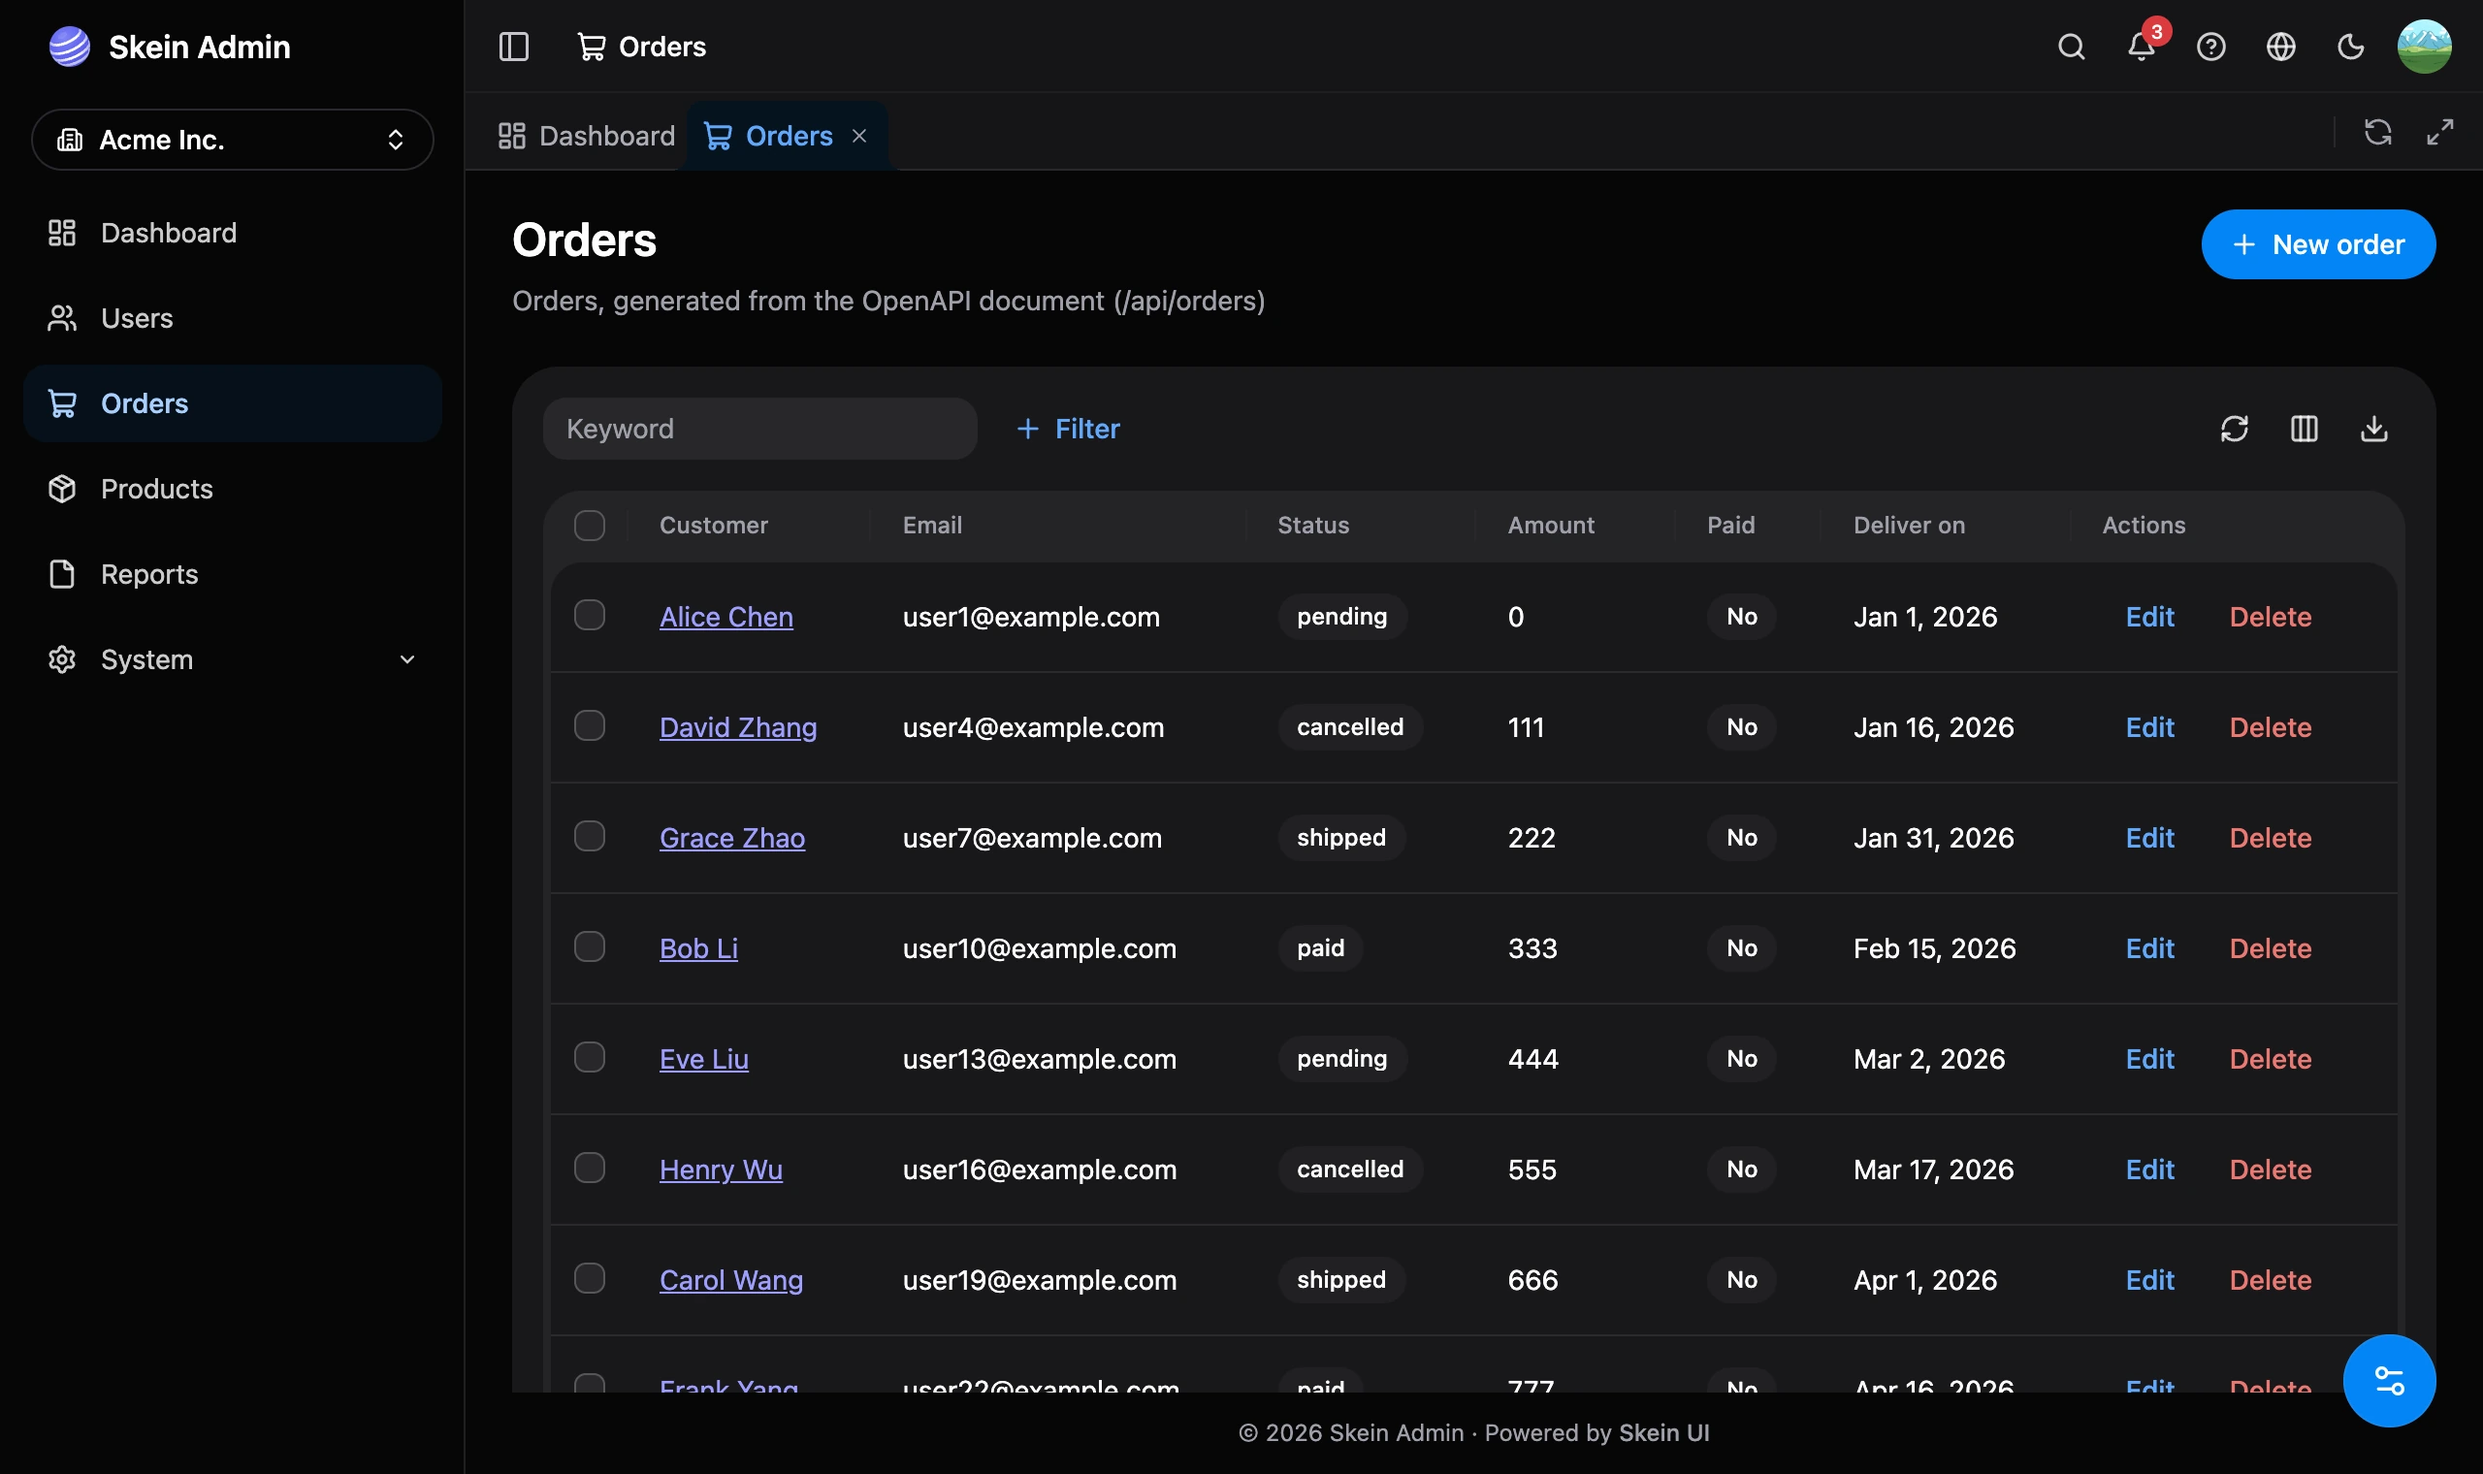
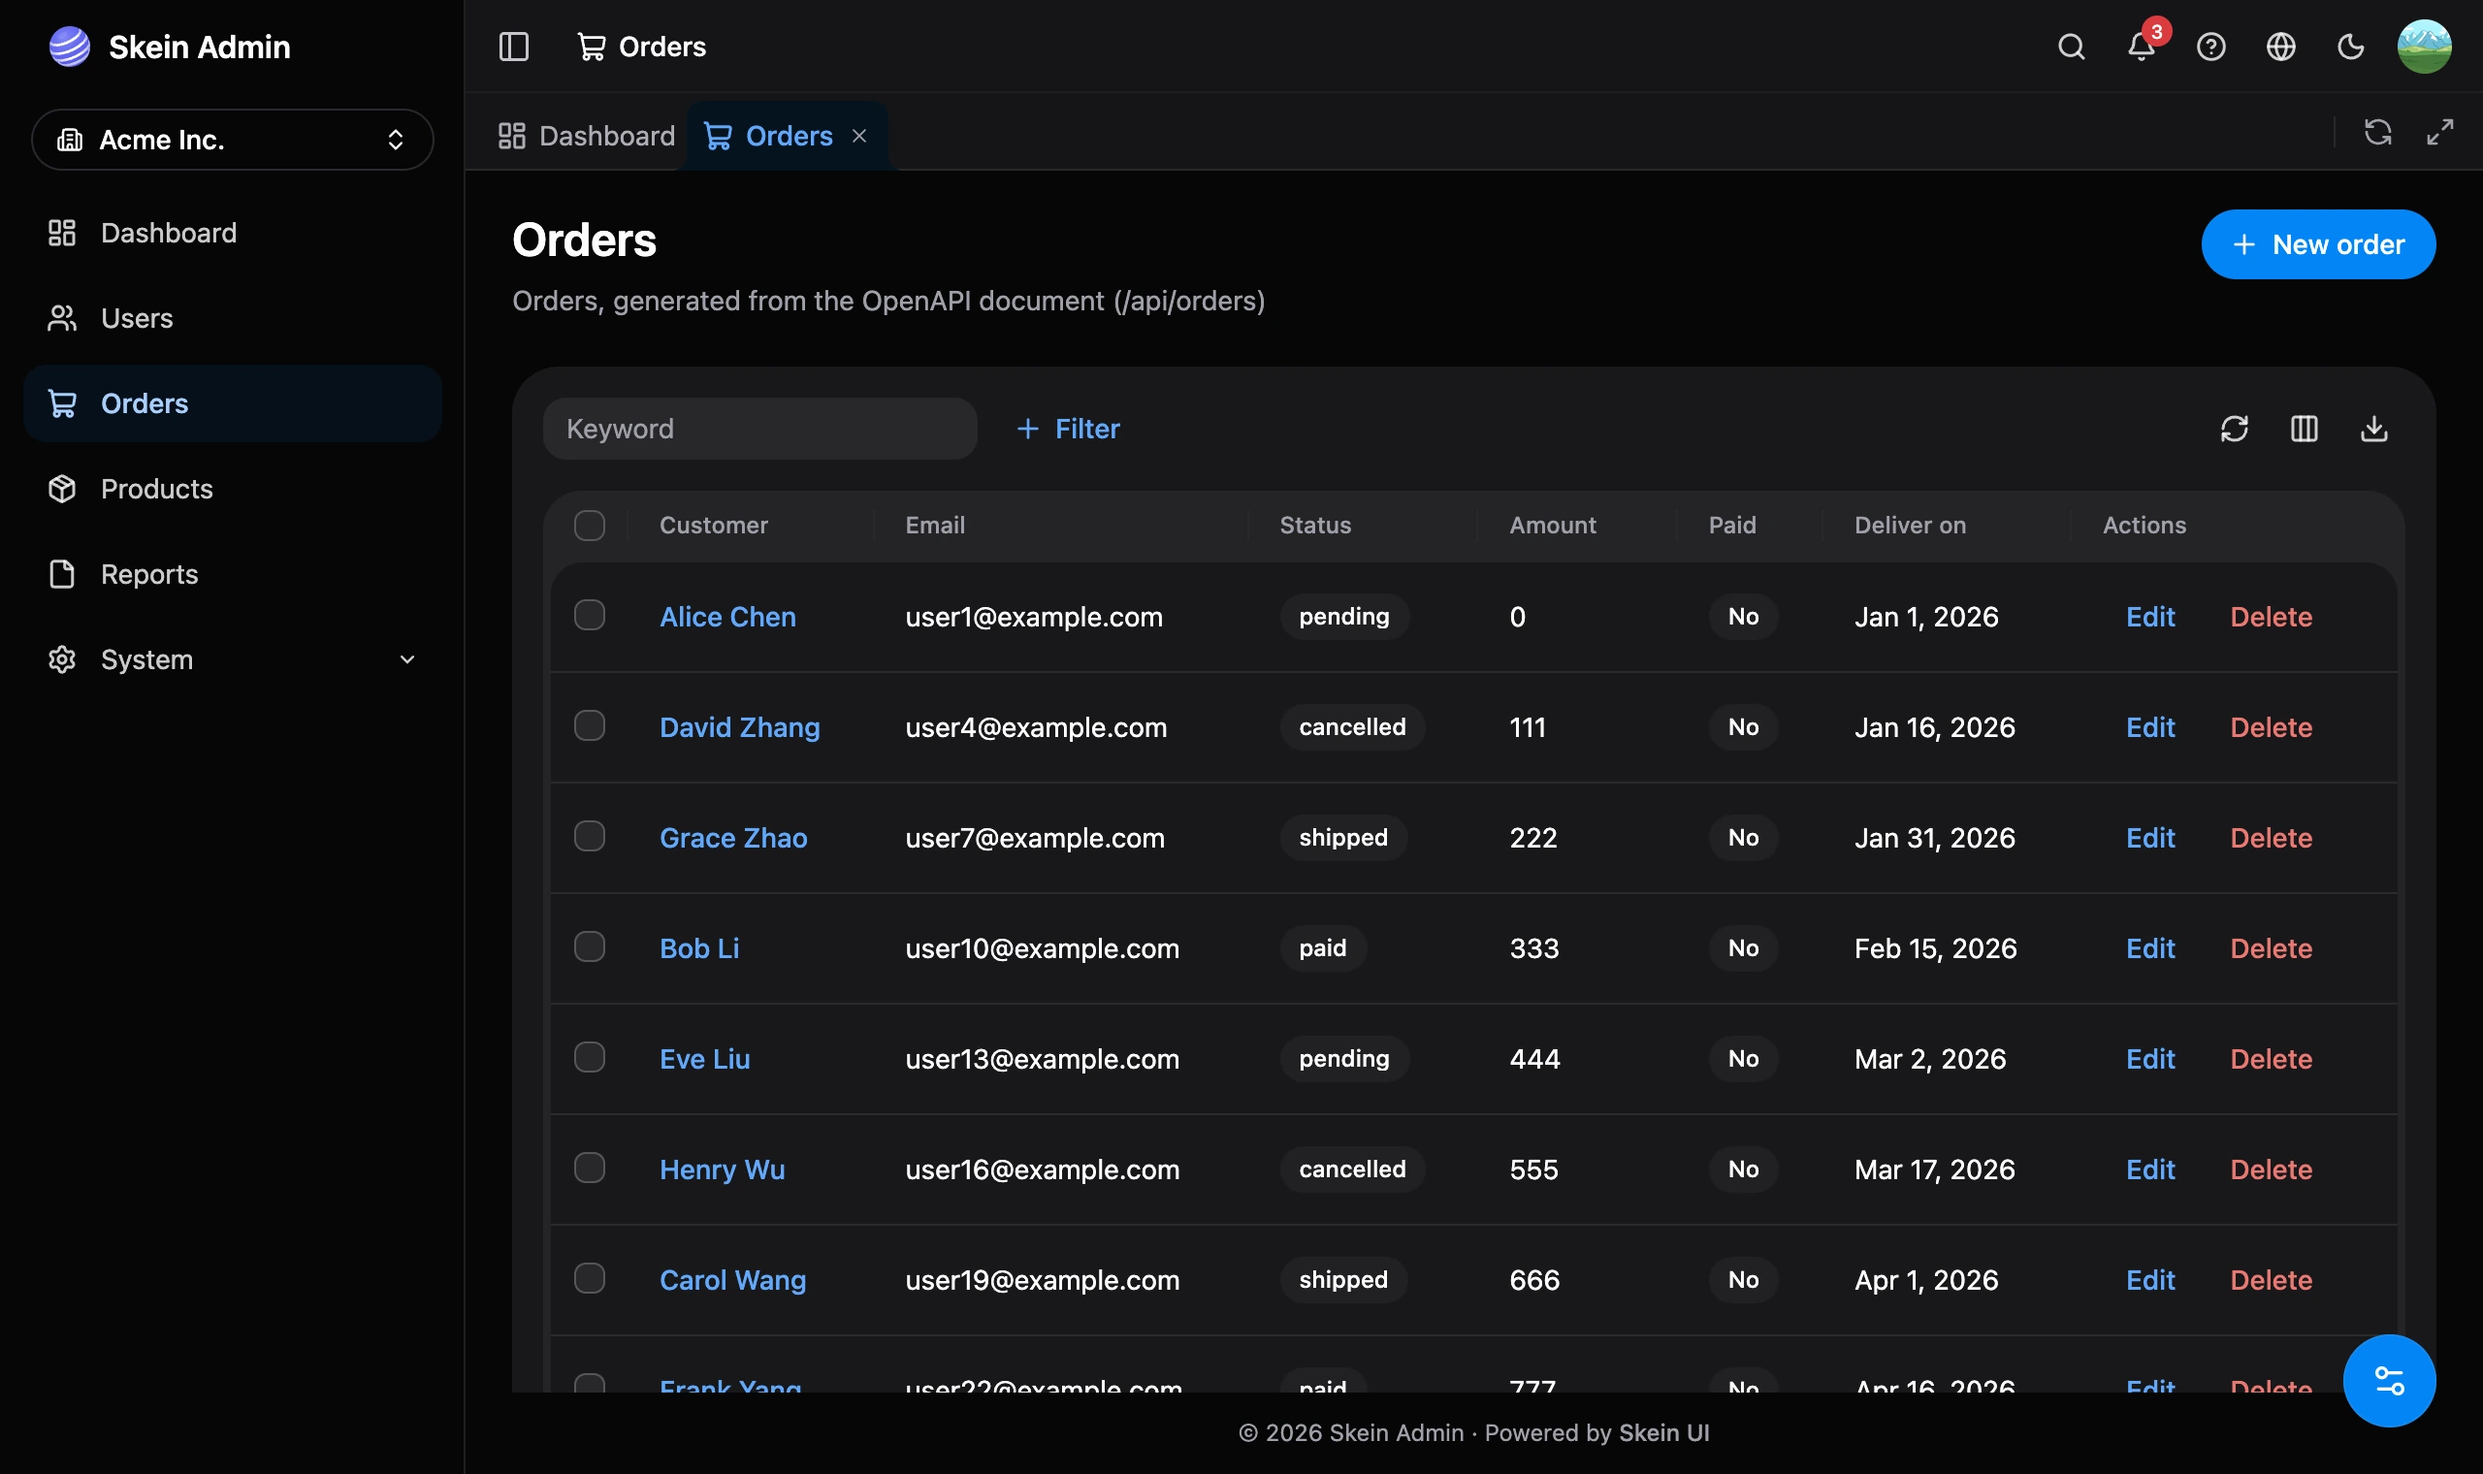
cli: a link to a detail page is drawn by the theme style's Link (RouterLink)
The users table and the pages made by skein new page --from linked with the router's own <Link>, a bare <a> in the
browser's blue and underline. RouterLink (skein-shell, createLink(Link)) keeps the typed to / params / from and the
client-side navigation and takes the look of the theme style. The doc's Skein Admin screenshots are taken again.

diff --git a/packages/cli/src/crud.js b/packages/cli/src/crud.js
@@ -574,8 +574,8 @@ ${keyword ? '            setKeyword("");\n' : ""}            setFilter(undefined
       const id = `String(${access("row", idField)})`;
       // With tenant, from the list's address so the tenant is kept
       return tenant
-        ? `<Link from="/$tenant/${path}" to="/$tenant/${path}/$id" params={(prev) => ({ ...prev, id: ${id} })}>${child}</Link>`
-        : `<Link to="/${path}/$id" params={{ id: ${id} }}>${child}</Link>`;
+        ? `<RouterLink from="/$tenant/${path}" to="/$tenant/${path}/$id" params={(prev) => ({ ...prev, id: ${id} })}>${child}</RouterLink>`
+        : `<RouterLink to="/${path}/$id" params={{ id: ${id} }}>${child}</RouterLink>`;
     }
     return child.startsWith("{") ? child.slice(1, -1) : child;
   };
@@ -618,7 +618,7 @@ ${keyword ? '            setKeyword("");\n' : ""}            setFilter(undefined
                 </Flex>
               </Table.Cell>`;
   files[`components/${leaf}-table.tsx`] = `import { ${tableImports.join(", ")} } from "@skeinui/ui";
-${linkField ? 'import { Link } from "@tanstack/react-router";\n' : ""}import type { ReactNode } from "react";
+${linkField ? 'import { RouterLink } from "@/skein-shell";\n' : ""}import type { ReactNode } from "react";
 ${sorted ? 'import type { Sort } from "@/lib/list-query";\n' : ""}${canVars ? 'import { useAccess } from "@/modules/access";\n' : ""}import type { ${Entity} } from "../api";
 import { use${Name}Translation } from "../locales";
 

diff --git a/packages/cli/templates/features/shell/files/src/pages/users/components/user-table.tsx b/packages/cli/templates/features/shell/files/src/pages/users/components/user-table.tsx
@@ -1,7 +1,7 @@
 import { Button, Flex, Popconfirm, Table, Tag } from "@skeinui/ui";
-import { Link } from "@tanstack/react-router";
 import type { ReactNode } from "react";
 import { useAccess } from "@/modules/access";
+import { RouterLink } from "@/skein-shell";
 import type { User } from "../api";
 import { useUsersTranslation } from "../locales";
 
@@ -35,16 +35,16 @@ export function UserTable({
     name: (user) => (
 {{#if tenant}}
       // From the list's address, so the tenant is kept
-      <Link
+      <RouterLink
         from="/$tenant/users"
         to="/$tenant/users/$id"
         params={(prev) => ({ ...prev, id: String(user.id) })}
       >
 {{else}}
-      <Link to="/users/$id" params={{ id: String(user.id) }}>
+      <RouterLink to="/users/$id" params={{ id: String(user.id) }}>
 {{/if}}
         {user.name}
-      </Link>
+      </RouterLink>
     ),
     email: (user) => user.email,
     role: (user) => t(`role.${user.role}`),

diff --git a/packages/cli/tests/cli.test.ts b/packages/cli/tests/cli.test.ts
@@ -699,7 +699,7 @@ describe("OpenAPI → CRUD page", () => {
       "export const fetchOrder = (id: number) => http.get<Order>(`/api/orders/${id}`);",
     );
     expect(page("detail.tsx")).toContain('navigate({ to: "/orders" })');
-    expect(page("components", "orders-table.tsx")).toContain('<Link to="/orders/$id"');
+    expect(page("components", "orders-table.tsx")).toContain('<RouterLink to="/orders/$id"');
     expect(page("mocks", "handlers.ts")).toContain('http.get("*/api/orders/:id"');
     expect(page("mocks", "handlers.ts")).not.toContain("tenantOf");
     expect(JSON.parse(page("locales", "messages", "zh.json")).detail.back).toBe("返回列表");

diff --git a/packages/cli/templates/features/shell/files/src/skein-shell/index.ts b/packages/cli/templates/features/shell/files/src/skein-shell/index.ts
@@ -2,5 +2,6 @@ export { AppLayout } from "./app-layout";
 export type { AppLayoutProps } from "./app-layout";
 export { KeepAliveOutlet, PageOutlet, usePagePath } from "./keep-alive-outlet";
 export { Page } from "./page";
+export { RouterLink } from "./router-link";
 export { usePageTitles, usePreferencesStore, useTabsStore } from "./store";
 export { loadThemeStyle, resolveThemeStyle, themeStyleOptions, useThemeStyle } from "./theme-style";

diff --git a/packages/cli/templates/features/shell/files/src/skein-shell/router-link.tsx b/packages/cli/templates/features/shell/files/src/skein-shell/router-link.tsx
@@ -1,0 +1,9 @@
+import { Link } from "@skeinui/ui";
+import { createLink } from "@tanstack/react-router";
+
+/**
+ * A link between pages: the router's `<Link>` (typed `to` / `params` / `from`, client-side navigation) drawn by the
+ * theme style's `Link`, so it looks like the rest of the app instead of a bare `<a>`:
+ * `<RouterLink to="/users/$id" params={{ id }}>Ada</RouterLink>`.
+ */
+export const RouterLink = createLink(Link);

diff --git a/packages/cli/templates/_base/AGENTS.md b/packages/cli/templates/_base/AGENTS.md
@@ -113,7 +113,7 @@ src/
 1. Set the menu label, icon (lucide-react) and order in `_meta.ts`.
 
 {{#if tenant}}
-Every page is under its tenant: `/acme/orders`, route files in `routes/_auth/$tenant/` (`new page` puts them there), menu paths and `_meta.ts` without the tenant. `routes/_auth/$tenant.tsx` makes the address's tenant the current one before the page loads, and `src/lib/http.ts` sends it as `X-Tenant-Id` with every request: the API answers for that tenant, so don't pass it to requests by hand. A path without a tenant (`/orders`) gets the one used last. The switcher (`src/modules/tenant-switcher/`, next to the logo) lists `GET /api/tenants` (`[{ id, name }]`{{#if mock}}, mocked{{/if}}) and goes to the same page of the tenant picked (on a detail page, its list); open tabs follow. Links between pages include the tenant (`<Link from="/$tenant/users" to="/$tenant/users/$id">`). Each tenant's pages use a query cache of their own (`src/modules/tenant-switcher/query-clients.ts`), so query keys don't need the tenant.
+Every page is under its tenant: `/acme/orders`, route files in `routes/_auth/$tenant/` (`new page` puts them there), menu paths and `_meta.ts` without the tenant. `routes/_auth/$tenant.tsx` makes the address's tenant the current one before the page loads, and `src/lib/http.ts` sends it as `X-Tenant-Id` with every request: the API answers for that tenant, so don't pass it to requests by hand. A path without a tenant (`/orders`) gets the one used last. The switcher (`src/modules/tenant-switcher/`, next to the logo) lists `GET /api/tenants` (`[{ id, name }]`{{#if mock}}, mocked{{/if}}) and goes to the same page of the tenant picked (on a detail page, its list); open tabs follow. Links between pages include the tenant (`<RouterLink from="/$tenant/users" to="/$tenant/users/$id">`, `RouterLink` from `@/skein-shell`: the router's `Link` drawn by the theme style's). Each tenant's pages use a query cache of their own (`src/modules/tenant-switcher/query-clients.ts`), so query keys don't need the tenant.
 
 {{/if}}
 A layout route under `routes/_auth/` that wraps a set of pages (e.g. `$tenant.tsx` around `$tenant.orders.tsx`) renders `<PageOutlet />` from `@/skein-shell` where its pages go, not `<Outlet />`: the shell keeps pages alive in tabs and hands each layout its own page.

diff --git a/.changeset/router-link.md b/.changeset/router-link.md
@@ -1,0 +1,5 @@
+---
+"@skeinui/cli": patch
+---
+
+Admin template: `RouterLink` (`@/skein-shell`, `createLink(Link)`) is the router's `<Link>` drawn by the theme style's `Link`; the users table and the pages made by `skein new page --from` use it for the link to the detail page, so it is no longer a bare blue underlined `<a>`.
